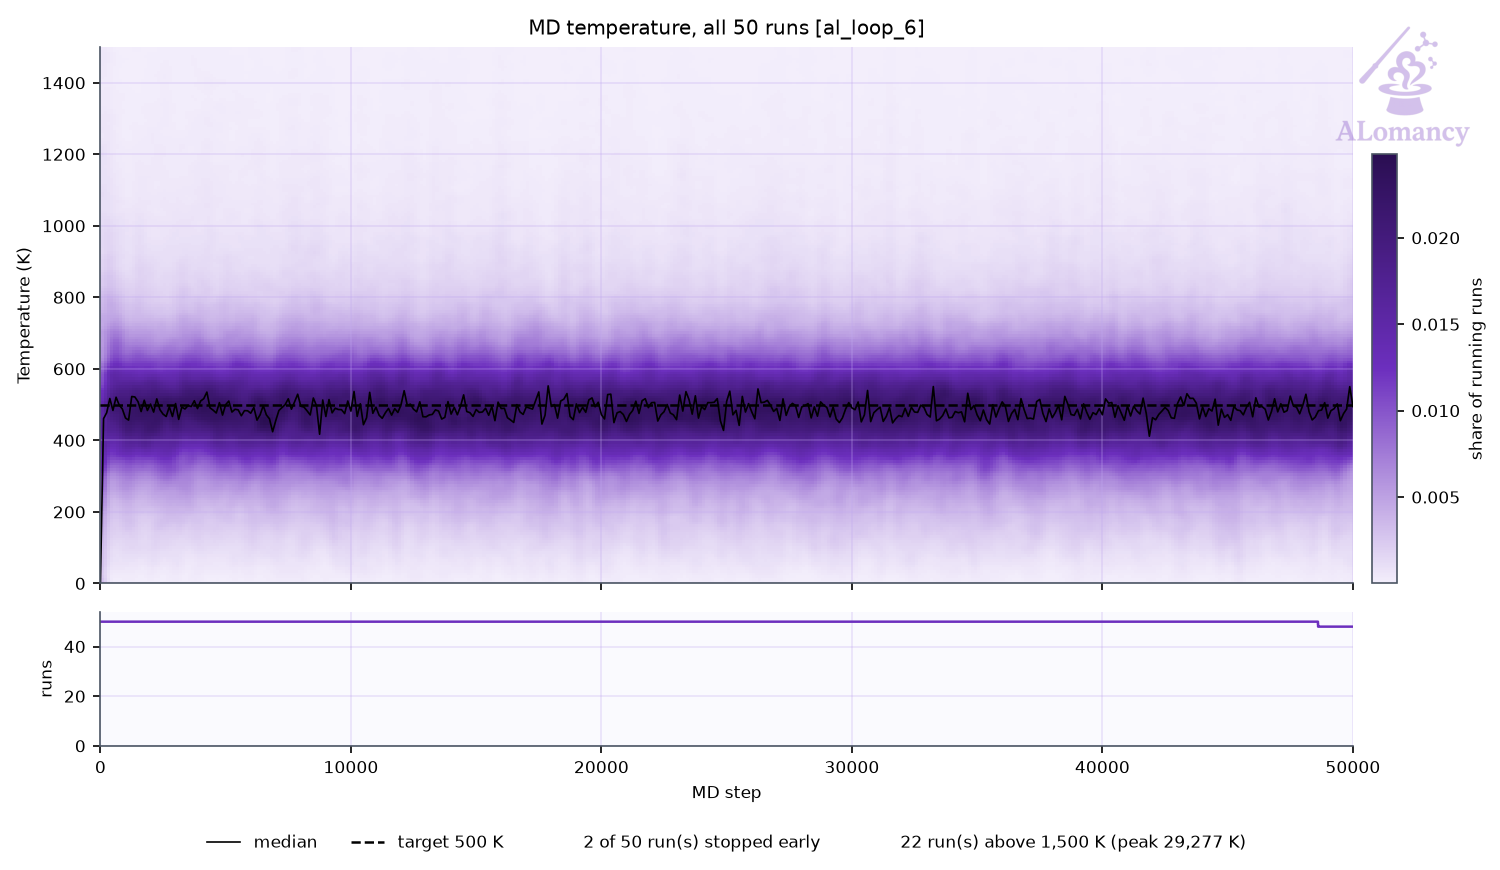
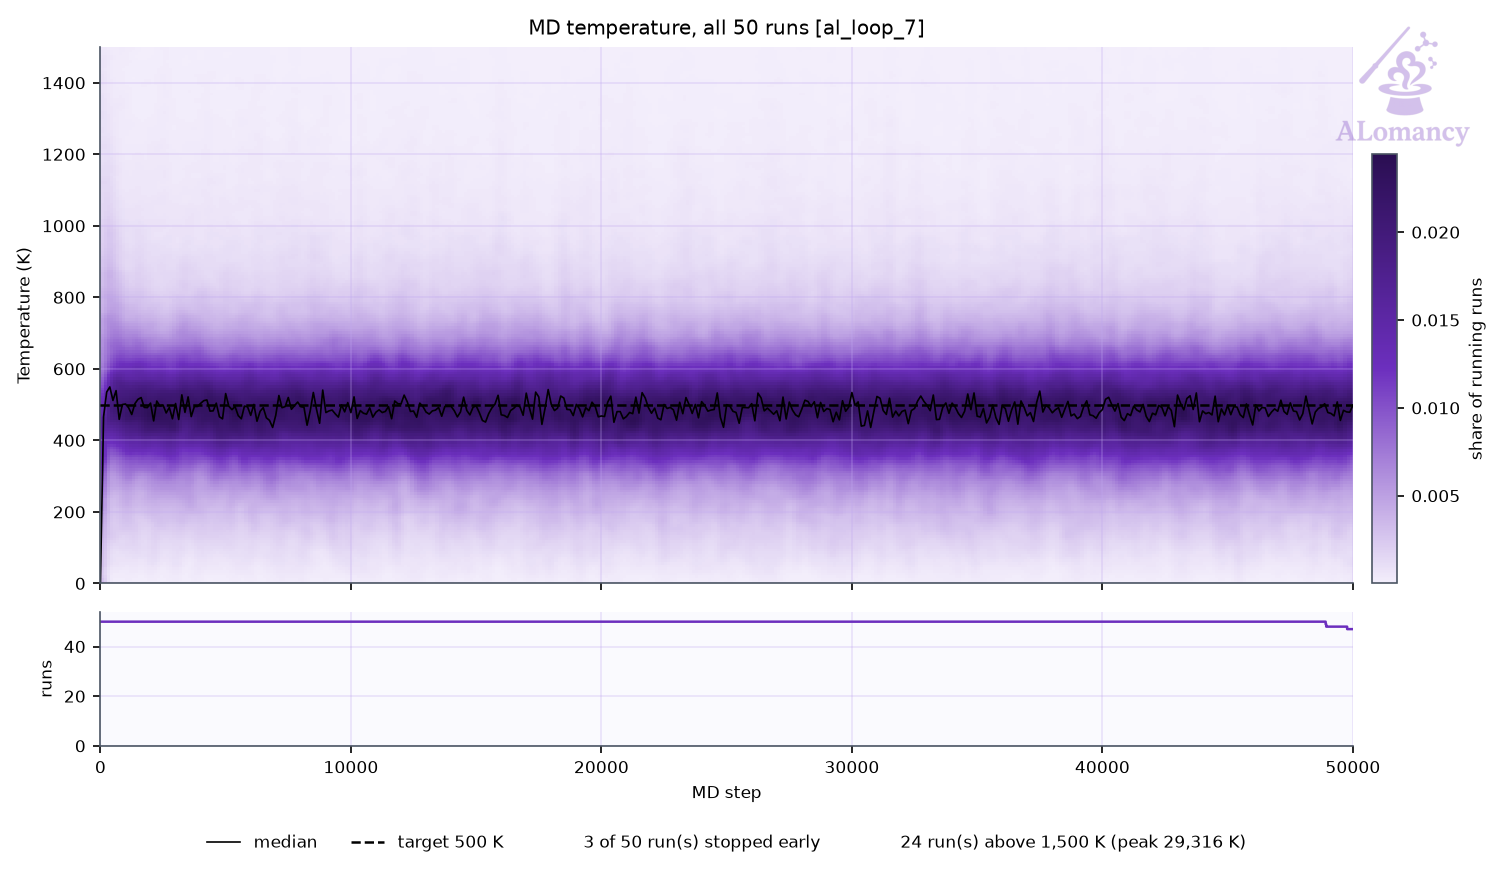
update good_c

diff --git a/alomancy/good_c/report/report.md b/alomancy/good_c/report/report.md
@@ -1,27 +1,27 @@
-# ALomancy report: al_loop_6
+# ALomancy report: al_loop_7
 
-Workflow `committee_uncertainty` · trainer `mace` · generator `md` · evaluator `qe` · generated 2026-11-10T09:15:34
+Workflow `committee_uncertainty` · trainer `mace` · generator `md` · evaluator `qe` · generated 2026-11-11T04:26:45
 
-**Status:** ✖ 2 errors · 💡 1 info · 12 warning(s) logged
+**Status:** ✖ 2 errors · 💡 1 info · 71 warning(s) logged
 
 ## Headline
 
-| | loop 5 | loop 6 | change |
+| | loop 6 | loop 7 | change |
 |---|---:|---:|---:|
-| Best model test force MAE (eV/Å) | 0.198 | 0.196 | -1% |
-| Best model test energy MAE (meV/atom) | 26.5 | 18.4 | -31% |
-| Training structures | 5.13e+03 | 5.26e+03 | +3% |
-| Test structures | 539 | 558 | +4% |
-| New structures this loop | 98 | 75 | -23% |
-| Warnings / errors logged | 3 | 12 | +300% |
+| Best model test force MAE (eV/Å) | 0.196 | 0.197 | +0% |
+| Best model test energy MAE (meV/atom) | 18.4 | 18.7 | +2% |
+| Training structures | 5.26e+03 | 5.31e+03 | +1% |
+| Test structures | 558 | 564 | +1% |
+| New structures this loop | 75 | 21 | -72% |
+| Warnings / errors logged | 12 | 71 | +492% |
 
-Best model: fit_0 of 3 (chosen on the `valid` split).
+Best model: fit_1 of 3 (chosen on the `valid` split).
 
 ## Issues & suggestions
 
-- ✖ **remote_jobs_failed**: 8/156 remote jobs (5%) failed (4) or died (4). Check the job logs (results/alomancy.log has each failure's traceback); jobs killed by the scheduler usually need a longer max_time for that phase, or a partition with more memory.
-- ✖ **dft_partial_failure**: 8/100 structures sent to DFT (8%) came back without a result. Check the DFT output in results/<loop>/high_accuracy_evaluation; raise high_accuracy_evaluation.max_time / max_go_time if jobs timed out.
-- 💡 **overfitting**: The best model's test force MAE (0.196 eV/Å) is 2.9x its training MAE (0.0684 eV/Å). The test set covers configurations training doesn't: keep adding data, or raise general.dataset_kwargs.valid_fraction to select models on held-out data.
+- ✖ **remote_jobs_failed**: 68/156 remote jobs (44%) failed (68) or died (0). Check the job logs (results/alomancy.log has each failure's traceback); jobs killed by the scheduler usually need a longer max_time for that phase, or a partition with more memory.
+- ✖ **dft_partial_failure**: 68/100 structures sent to DFT (68%) came back without a result. Check the DFT output in results/<loop>/high_accuracy_evaluation; raise high_accuracy_evaluation.max_time / max_go_time if jobs timed out.
+- 💡 **overfitting**: The best model's test force MAE (0.197 eV/Å) is 2.3x its training MAE (0.0849 eV/Å). The test set covers configurations training doesn't: keep adding data, or raise general.dataset_kwargs.valid_fraction to select models on held-out data.
 
 ## Trends
 
@@ -34,6 +34,7 @@ Best model: fit_0 of 3 (chosen on the `valid` split).
 | 4 | 0.201 | 4963 | 300 | 100/100 | 99% | 0 | 3 |
 | 5 | 0.198 | 5132 | 98 | 100/100 | 100% | 0 | 3 |
 | 6 | 0.196 | 5263 | 75 | 92/100 | 100% | 0 | 12 |
+| 7 | 0.197 | 5308 | 21 | 32/100 | 100% | 0 | 71 |
 
 ![Best-model MAE per loop](plots/training_al_loop_mae_plot.png)
 
@@ -43,7 +44,7 @@ Best model: fit_0 of 3 (chosen on the `valid` split).
 
 ![Best model parity](plots/best_model_parity.png)
 
-Median relative error: train energy 0.1%, force 7.2%; test energy 0.2%, force 17.0%.
+Median relative error: train energy 0.2%, force 8.9%; test energy 0.2%, force 18.1%.
 Energies with |formation energy| < 0.05 eV/atom and atoms with |F| < 0.1 eV/Å are left out; force error is |ΔF|/|F| per atom.
 
 ![Best model percentage error](plots/best_model_percent_error.png)
@@ -54,7 +55,7 @@ Energies with |formation energy| < 0.05 eV/atom and atoms with |F| < 0.1 eV/Å a
 |---|---:|---:|---:|---:|
 | CNa_dataset | 3538 | 392 | 662 | 4592 |
 | IsolatedAtom | 1 | 0 | 0 | 1 |
-| high_sd | 1405 | 162 | 117 | 1684 |
+| high_sd | 1450 | 168 | 130 | 1748 |
 | init_MP | 7 | 1 | 0 | 8 |
 | init_amorphous | 26 | 3 | 0 | 29 |
 | init_dimer | 99 | 0 | 0 | 99 |
@@ -63,11 +64,11 @@ Energies with |formation energy| < 0.05 eV/atom and atoms with |F| < 0.1 eV/Å a
 | init_trimer | 50 | 0 | 0 | 50 |
 | on_hull | 1 | 0 | 0 | 1 |
 | on_hull_expansion | 11 | 0 | 9 | 20 |
-| **all** | **5263** | **558** | **1205** | **7026** |
+| **all** | **5308** | **564** | **1218** | **7090** |
 
-- Redundancy removal: 0 structure(s) flagged in total, 0 of this loop's 75 new.
-- DFT geometry-optimisation starting frames: 109 stored this loop, 75 used (the rest excluded by the train/test filters or redundancy removal).
-- Quality filters: high_force: 1196, formation_energy: 21.
+- Redundancy removal: 0 structure(s) flagged in total, 0 of this loop's 21 new.
+- DFT geometry-optimisation starting frames: 43 stored this loop, 30 used (the rest excluded by the train/test filters or redundancy removal).
+- Quality filters: high_force: 1209, formation_energy: 21.
 
 ![Training set composition](plots/training_set_composition.png)
 
@@ -75,17 +76,17 @@ Energies with |formation energy| < 0.05 eV/atom and atoms with |F| < 0.1 eV/Å a
 
 Redundancy removal flags near-duplicate training structures, so the model isn't trained on many copies of the same geometry. Each structure is described by `char_vec_128`: all of its interatomic distances, sorted and resampled to 128 values (`global_descriptor/atomic_distance_descriptor.make_char_vec`). Two structures count as duplicates when the Euclidean distance between their descriptors is below a tolerance: in database order, each structure still in the training set is kept unless it is within the tolerance of one already kept. The plot sweeps that tolerance and counts how many structures are kept at each value. **We are looking for plateaus** (shaded): ranges where the count doesn't change, so the result doesn't depend on the exact tolerance. The orange line (right axis) is the number of structures removed between consecutive tolerance steps, the gradient of the count: zero on a plateau. The start of the lowest plateau at least `general.redundancy_kwargs.min_plateau_width` of the swept range wide is used (dashed line). Nothing is flagged when no plateau qualifies, or when it would flag more than `max_flagged_fraction` of the structures; `general.redundancy_kwargs.tolerance` sets the tolerance directly.
 
-- This loop: 4,976 structures probed; the lowest plateau would flag more than 50% of them, so nothing was flagged.
+- This loop: 5,021 structures probed; the lowest plateau would flag more than 50% of them, so nothing was flagged.
 
 ![Redundancy tolerance probe](plots/redundancy_tolerance_probe.png)
 
 ## DFT
 
-- Structures: 92 returned of 100 submitted (92 relaxed, 0 single point).
-- Geometry optimisation: 92/92 reached the force ceiling (0.05 eV/Å); steps mean 25.6, median 25, max 69 of 200 allowed.
-- Average DFT time per relaxation: 173.0 min (median 154.1, max 859.6; 92 structures).
-- Largest per-atom force after DFT: median 0.04, max 0.05 eV/Å.
-- DFT phase wall-clock: 15.8 h (mean queue time 56 min).
+- Structures: 32 returned of 100 submitted (32 relaxed, 0 single point).
+- Geometry optimisation: 32/32 reached the force ceiling (0.05 eV/Å); steps mean 6.3, median 5, max 26 of 200 allowed.
+- Average DFT time per relaxation: 145.1 min (median 10.7, max 655.4; 32 structures).
+- Largest per-atom force after DFT: median 0.02, max 0.04 eV/Å.
+- DFT phase wall-clock: 11.1 h (mean queue time 5 min).
 
 **Structures evaluated with DFT this loop (final geometries)**
 
@@ -93,14 +94,14 @@ Redundancy removal flags near-duplicate training structures, so the model isn't 
 
 ## MLIP training: mace
 
-- Best fit (fit_0) trained for 299 epochs, stage two from epoch 240; weights kept from epoch 281.
+- Best fit (fit_1) trained for 299 epochs, stage two from epoch 240; weights kept from epoch 297.
 
 ![Best model training curve](plots/best_model_training_curve.png)
 
 ## Structure generation: MD
 
 - Runs: 50 (50 completed, 0 seed(s) replaced)
-- Frames: 10000 recorded, 8006 physical (no bond < 0.5 Å, volume ≤ 3 x the seed's; 1944 frame(s) cut after a run expanded past it, seed frames left out), 1000 picked as candidates, spread over each run
+- Frames: 10000 recorded, 8334 physical (no bond < 0.5 Å, volume ≤ 3 x the seed's; 1616 frame(s) cut after a run expanded past it, seed frames left out), 1000 picked as candidates, spread over each run
 - Ensemble npt, T = 500 K, timestep 0.2 fs
 
 ![MD frames per run](plots/md_frames_per_run.png)
@@ -115,7 +116,7 @@ Redundancy removal flags near-duplicate training structures, so the model isn't 
 
 ## Selection: committee uncertainty
 
-- 986 candidates scored; 100 selected (10 %; max force std dev ≥ 0.404 eV/Å).
+- 985 candidates scored; 100 selected (10 %; max force std dev ≥ 1.83 eV/Å).
 
 ![Committee force std dev](plots/committee_force_std_dev.png)
 
@@ -125,11 +126,9 @@ Redundancy removal flags near-duplicate training structures, so the model isn't 
 |---|---|---:|
 | `blown_up_excluded` | blown-up cells kept from DFT (volume >> vdW volume) | 1 |
 | `dft_summary` | DFT batch summary | 1 |
-| `job_died` | remote job died (killed / lost) | 4 |
-| `job_failed` | remote job failed | 4 |
+| `job_failed` | remote job failed | 68 |
 | `jobs_started` | remote jobs started | 4 |
 | `md_summary` | MD summary | 1 |
 | `md_volume_expanded` | MD runs cut after expanding past max_volume_ratio | 1 |
 | `quality_filtered` | train/test quality filter passes | 2 |
 | `redundancy_cap_hit` | redundancy removal skipped (would flag too many) | 1 |
-| `ssh_auth_lost` | ssh login lost (waited for a new login) | 1 |
